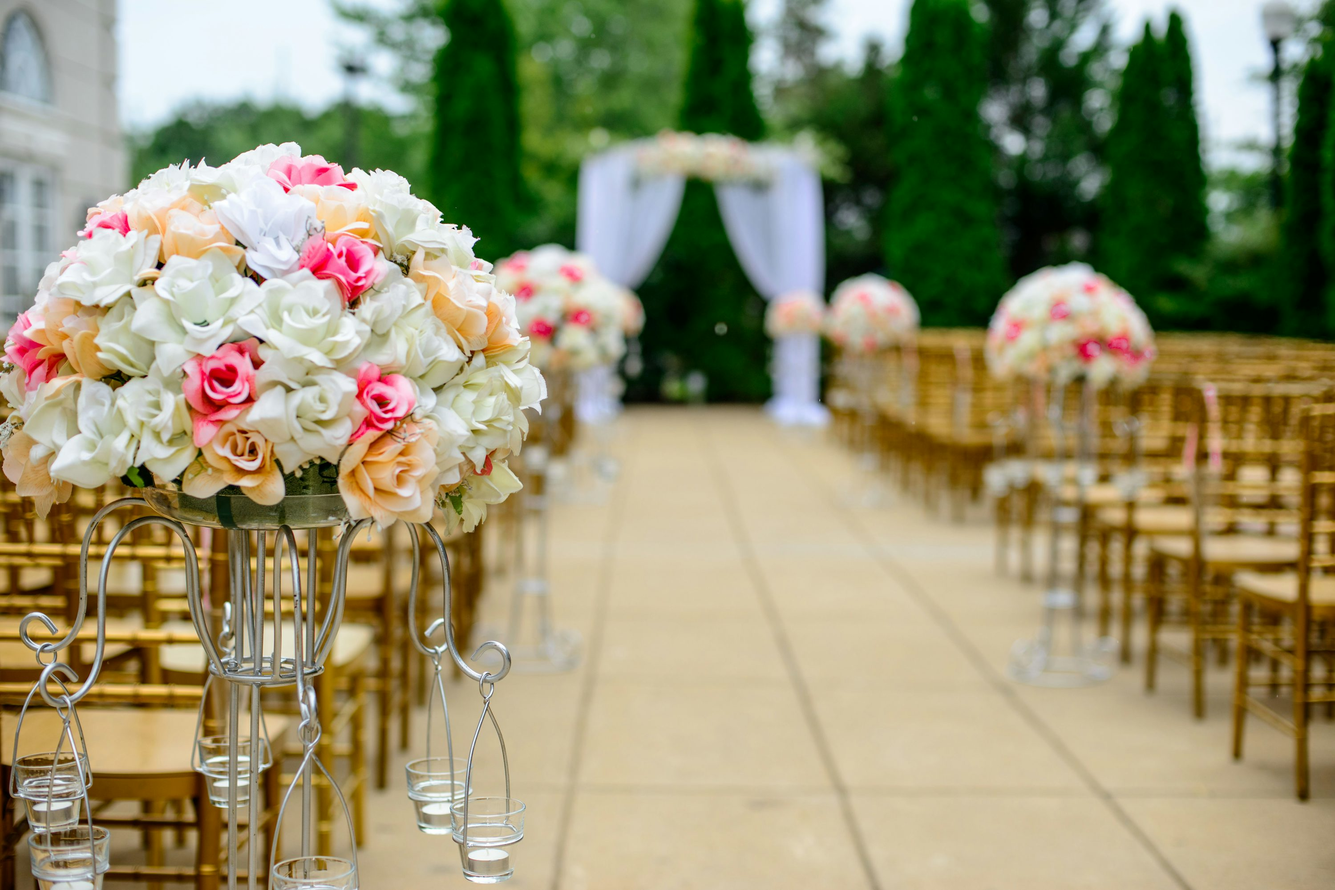
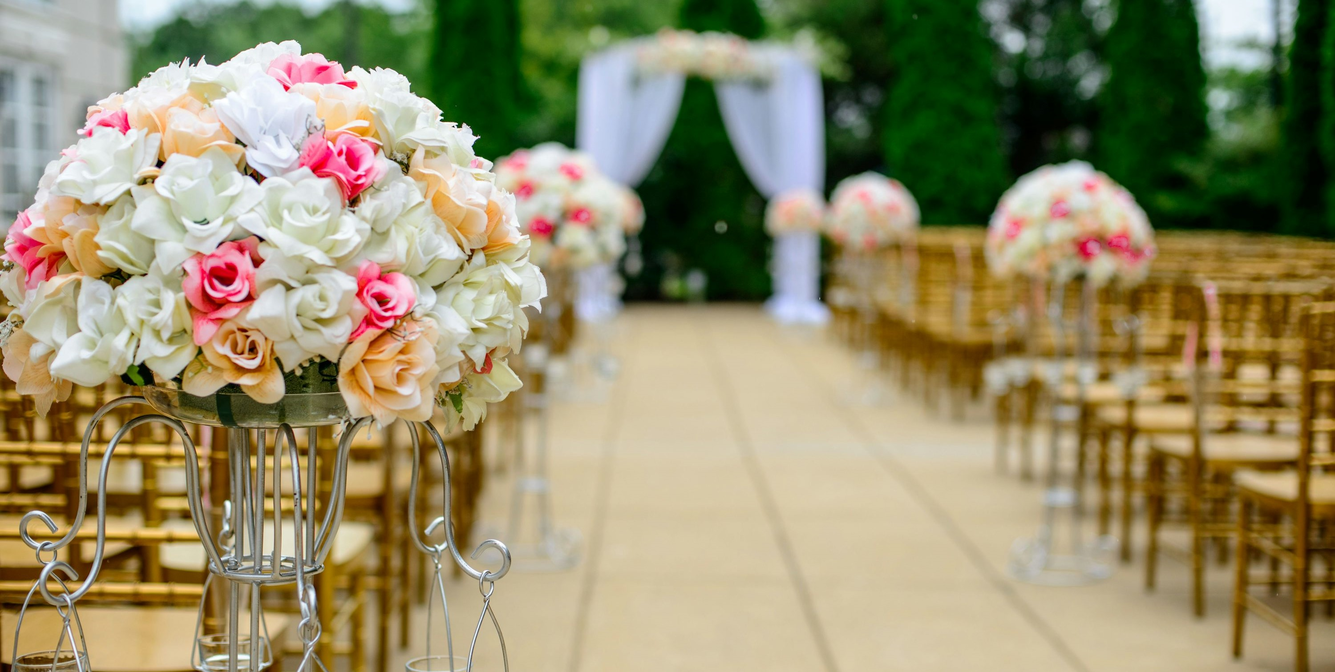
updated cover page

diff --git a/wedding-frontend/src/components/CoverPage.css b/wedding-frontend/src/components/CoverPage.css
@@ -24,6 +24,7 @@
     font-size: 30px;
     font-weight: bold;
     color: #945ba7;
+    font-family: Georgia, 'Times New Roman', Times, serif;
 }
 
 .nav-buttons {
@@ -33,7 +34,7 @@
 
 
 .nav-buttons button {
-    padding: 4px 25px;
+    padding: 12px 25px;
     border: none;
     background-color: #945ba7;
     color: var(--white);
@@ -55,10 +56,11 @@
 .hero-content h1 {
     font-size: 48px;
     margin-bottom: 20px;
+    font-family: Georgia, 'Times New Roman', Times, serif;
 }
 
 .hero-content p {
-    font-size: 18px;
+    font-size: 20px;
     margin-bottom: 30px;
     max-width: 600px;
     margin-left: auto;
@@ -90,6 +92,7 @@
     font-size: 32px;
     margin-bottom: 40px;
     color: rgb(185, 137, 171);
+    font-family: Georgia, 'Times New Roman', Times, serif;
 }
 
 .services-cards {
@@ -116,4 +119,101 @@
 .card p {
     font-size: 16px;
     color: #555;
+}
+
+.cover-2-section {
+    display: flex;
+    align-items: center;
+    justify-content: space-between;
+    background: #dfcece;
+    padding-left: 30px;
+    color: white;
+}
+
+.cover-2-text {
+    width: 50%;
+    padding-right: 40px;
+}
+
+
+.cover-2-text h2 {
+    font-size: 36px;
+    margin-bottom: 20px;
+    text-align: left;
+    color: rgb(151, 111, 139);
+    font-family: Georgia, 'Times New Roman', Times, serif;
+}
+
+.cover-2-text p {
+    font-size: 18px;
+    line-height: 1.6;
+    color: #353434;
+    font-weight: 450;
+}
+
+.cover-2-image {
+    width: 50%;
+    display: flex;
+    justify-content: center;
+}
+
+.cover-2-image img {
+    max-width: 100%;
+    height: auto;
+}
+
+.all-in-one-section {
+    background-color: #fef8f3;
+    padding: 80px 40px;
+}
+
+.all-in-one-content {
+    display: flex;
+    align-items: center;
+    gap: 100px;
+    flex-wrap: wrap;
+}
+
+.image-side img {
+    width: 560px;
+    height: auto;
+    justify-content: left;
+    align-self: left;
+    box-shadow: 0 6px 20px rgba(0, 0, 0, 0.15);
+}
+
+.text-side {
+    max-width: 500px;
+    align-items: right;
+    justify-content: left;
+}
+
+.text-side h2 {
+    font-size: 36px;
+    color: rgb(185, 137, 171);
+    margin-bottom: 20px;
+    font-family: Georgia, 'Times New Roman', Times, serif;
+}
+
+.text-side p {
+    font-size: 16px;
+    color: #555;
+    margin-bottom: 30px;
+}
+
+/* Fancy bullet grid */
+.features-grid {
+    display: grid;
+    grid-template-columns: repeat(2, minmax(0, 1fr));
+    gap: 10px 30px;
+}
+
+.feature-item {
+    background: #ffffff;
+    padding: 10px 15px;
+    border-left: 4px solid #945ba7;
+    border-radius: 6px;
+    font-size: 16px;
+    color: #555;
+    transition: background-color 0.3s;
 }

diff --git a/wedding-frontend/src/components/CoverPage.js b/wedding-frontend/src/components/CoverPage.js
@@ -12,7 +12,7 @@ const CoverPage = () => {
                 <div className="title">Wedsync</div>
                 <div className="nav-buttons">
                     <button onClick={() => navigate('/login')}>Login</button>
-                    <button onClick={() => navigate('/signup')}>Sign Up</button>
+                    <button onClick={() => navigate('/signup')}>SignUp</button>
                 </div>
             </header>
 
@@ -44,6 +44,43 @@ const CoverPage = () => {
                 </div>
             </section>
 
+            <section className="cover-2-section">
+                <div className="cover-2-text">
+                    <h2>Plan your Event to Perfection</h2>
+                    <p>Get customized design and management services for your event at an affordable cost. Reach out now to elevate your event’s charm.</p>
+                </div>
+                <div className="cover-2-image">
+                    <img src="/assets/bg-5.jpg" alt="Event Planning" />
+                </div>
+            </section>
+
+            <section className="all-in-one-section">
+                <div className="all-in-one-content">
+                    <div className="image-side">
+                        <img src="/assets/bg-4.jpg" alt="Event Management" />
+                    </div>
+                    <div className="text-side">
+                        <h2>All-in-One Solution for Your Events</h2>
+                        <p>
+                            WedSync boasts a vast list of event management services for every client, regardless of the event’s scale and nature.
+                        </p>
+                        <div className="features-grid">
+                            <div className="feature-item"> Decorations</div>
+                            <div className="feature-item"> Catering Service</div>
+                            <div className="feature-item"> DJ and Music</div>
+                            <div className="feature-item"> Photography</div>
+                            <div className="feature-item"> Dream Venues</div>
+                            <div className="feature-item"> Task Tracking</div>
+                            <div className="feature-item"> Guest List Management</div>
+                            <div className="feature-item"> Payments Tracking</div>
+                        </div>
+                    </div>
+                </div>
+            </section>
+
+
+
+            <Footer />
         </div>
     );
 };

diff --git a/wedding-frontend/src/components/Footer2.js b/wedding-frontend/src/components/Footer2.js
@@ -2,7 +2,6 @@ import React from 'react';
 import './Footer.css';
 
 function Footer() {
-    const user = JSON.parse(localStorage.getItem('user'));
 
     return (
         <footer className="footer">
@@ -22,7 +21,7 @@ function Footer() {
             </div>
 
             <div className="footer-bottom">
-                <p>&copy; {new Date().getFullYear()} WedSync. All rights reserved.</p>
+                <p>&copy; 2025 WedSync. All rights reserved.</p>
             </div>
         </footer>
     );

diff --git a/wedding-frontend/src/components/Footer.js b/wedding-frontend/src/components/Footer.js
@@ -31,7 +31,7 @@ function Footer() {
             </div>
 
             <div className="footer-bottom">
-                <p>&copy; {new Date().getFullYear()} WedSync. All rights reserved.</p>
+                <p>&copy; 2025 WedSync. All rights reserved.</p>
             </div>
         </footer>
     );
